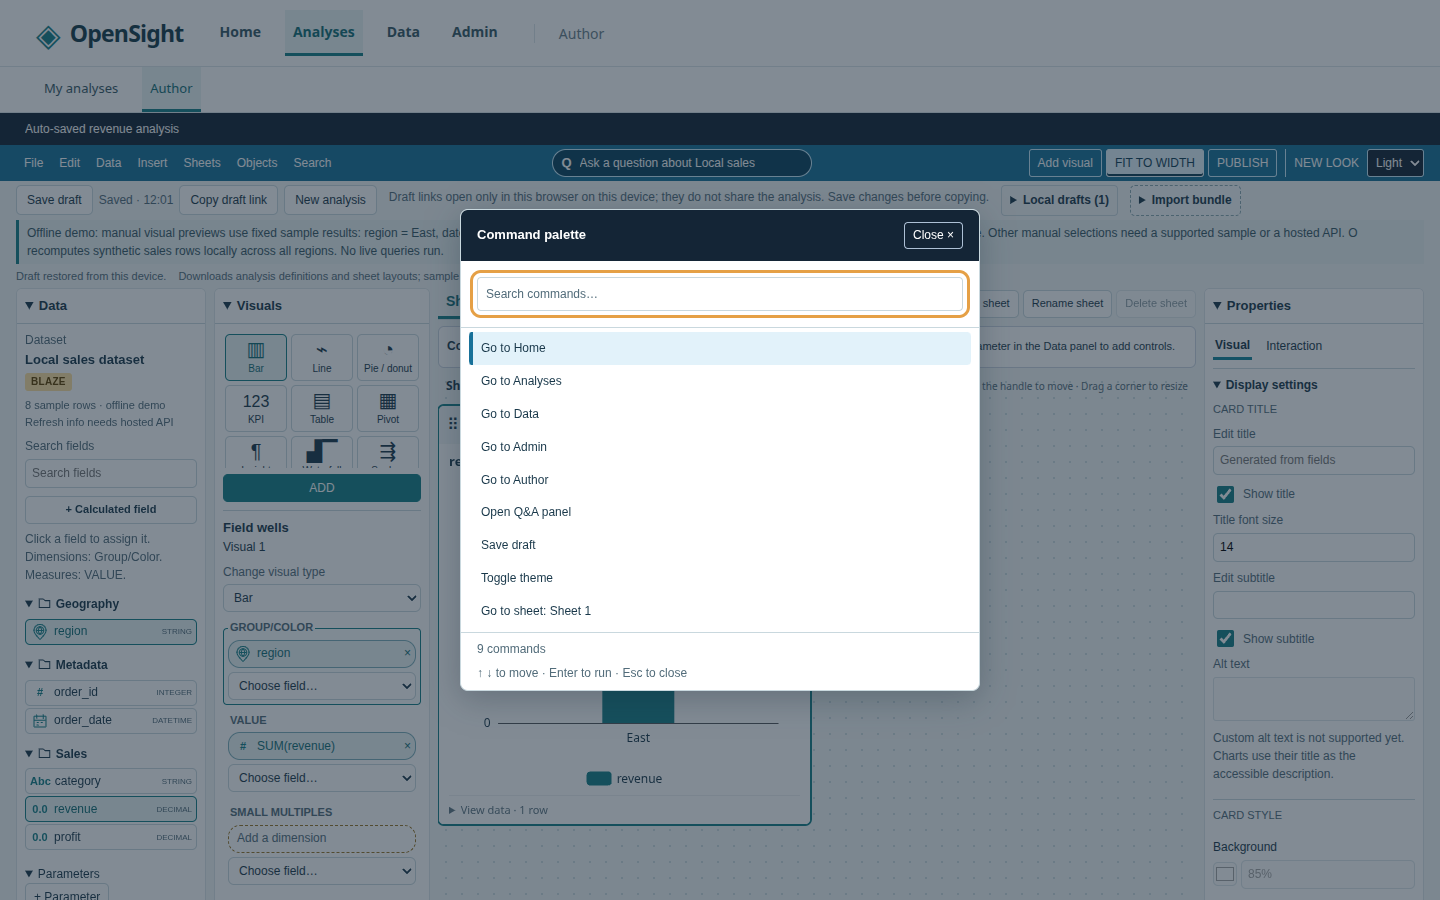
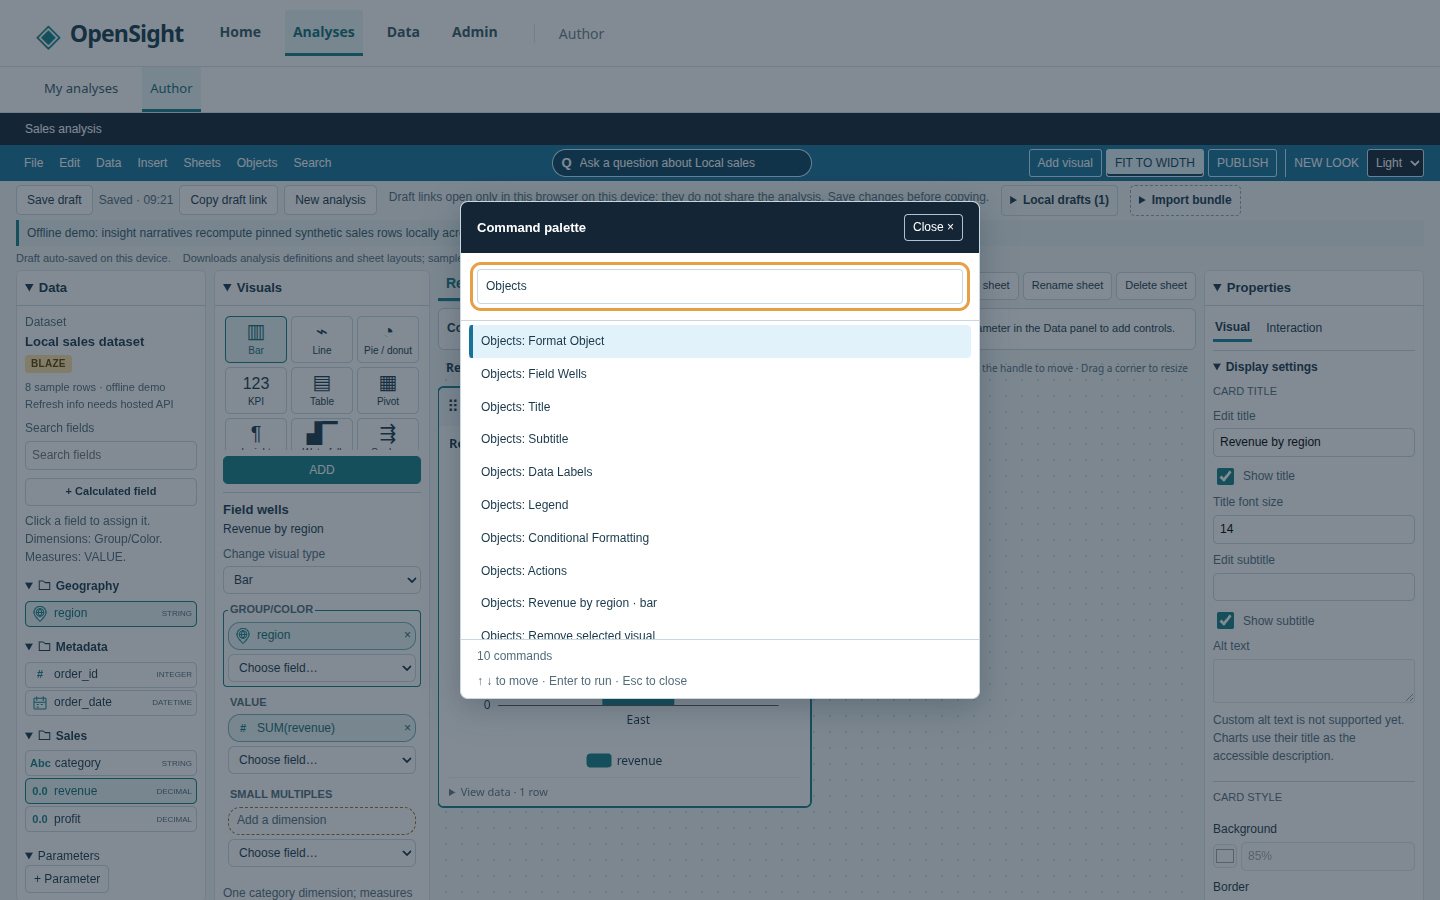
Issue #60: verify menu parity and refresh README media

diff --git a/docs/issue-60-menu-bar-parity.md b/docs/issue-60-menu-bar-parity.md
@@ -55,3 +55,66 @@ commands are omitted. Sheet/visual navigation and field search are retained
 as commands, including finding visuals on another sheet. Menu registrations
 are removed on navigation. Search restores focus through the existing modal
 lifecycle; no second search implementation or dependency was added.
+
+## Browser verification and media
+
+The rebuilt static demo was compared qualitatively with all seven supplied
+local menu references. Reference images were viewed locally and were never
+copied into the repository. The implementation retains the navy/blue toolbar,
+Arial system font stack, 12px controls and 4/8px spacing. Dropdown order and
+separators follow the reference. OpenSight retains its product navigation,
+explicit demo disclosures, and existing sheet/visual selection actions.
+
+Objects now exposes all reference actions in a taller desktop dropdown.
+Menus scroll on narrow screens to fit below the wrapped toolbar. The desktop
+menu is wider and more spacious than the reference; icons and exact pixel
+fidelity remain unmeasured. Search deliberately opens the shipped command
+palette instead of adding another search popover. Unsupported feature work
+remains identified by the disabled item explanations above; no GitHub calls
+or phase-plan edits were made under the offline/no-spec-edit brief.
+
+The final browser tour passed with **27 recorded checks, zero page errors,
+and zero external HTTP requests**. It exercised menu order, disabled reasons,
+Escape and outside-click dismissal, focus across collapsed docks and both
+Properties tabs, calculation/parameter/Q dialogs, sheet actions, palette
+execution and focus return, field and cross-sheet visual lookup, definition
+exports and .qs import, and preparation navigation. Viewports: 1440, 760 and
+390px in both light and dark themes. The separate root-wired Chromium geometry
+suite also covers 1100px and checks the mobile menu height limit.
+
+Captures and logs stay in ignored `.opensight/issue-60/browser/`. The supplied
+demo shim was used with only its output destination redirected there to
+respect the capture-location constraint; `packages/web/dist` was rebuilt from
+source. This is a local static demo, not a deployed server.
+
+The supplied fixed README capture script was adapted to this demo and capture
+directory, with File, Objects and Search scenes added. Capture and the supplied
+ffmpeg palette/assembly workflow passed: **59 frames, 960×600, 10fps, 5.9s**;
+no page errors. The hero GIF, Author screenshot and command-palette screenshot
+were refreshed, and the new Objects menu screenshot is shown below.
+
+![Objects menu in the local static demo](images/menu-bar.png)
+
+## Final verification
+
+Root `TZ=UTC npm test` exited 0: **1,941 passed / 0 failed / 12 skipped /
+0 cancelled** (1,953 tests). Every skip requires live PostgreSQL; no database
+was configured. Strict TypeScript checks passed as part of the workspace run.
+
+| Suite | Passed | Failed | Skipped |
+| --- | ---: | ---: | ---: |
+| API | 304 | 0 | 10 |
+| Bundle parser | 199 | 0 | 0 |
+| Embedding SDK | 9 | 0 | 0 |
+| Interpreter | 32 | 0 | 0 |
+| Parity | 11 | 0 | 0 |
+| Query engine | 502 | 0 | 2 |
+| Web | 878 | 0 | 0 |
+| Root conformance | 6 | 0 | 0 |
+
+The initial foreground run was terminated by the execution environment. A
+complete rerun identified two old assertions reading the native `disabled`
+property instead of the menu's keyboard-reachable `aria-disabled` state. Both
+were updated without changing availability checks; the final full rerun above
+passed. Logs and machine-readable counts are in the ignored issue directory.
+No dependency, backend service, or solution-design change was required.

diff --git a/README.md b/README.md
@@ -8,7 +8,7 @@ bidirectional asset compatibility — connect data, prepare datasets, build
 analyses and dashboards, and ask questions in natural language. Self-hosted;
 no AWS required.
 
-![OpenSight tour: dashboard, back to top, O answer, command palette, authoring, auto-save recovery, radar, Sankey, waterfall, insight, pivot, saved drafts, and data tools](docs/images/opensight-tour.gif)
+![OpenSight tour: sample dashboard, O answer, Author File and Objects menus, command palette, and data tools](docs/images/opensight-tour.gif)
 
 *Above: the offline demo — a dashboard, O answering "revenue by region" and
 adding the chart to an analysis, saved drafts, data preparation, connectors,
@@ -104,6 +104,11 @@ navigation and available actions, save the current draft, switch NEW LOOK, jump
 between analysis sheets, or open Q&A. Use arrows, Enter, and Esc from the keyboard.
 
 ![Command palette with navigation and current analysis actions](docs/images/command-palette.png)
+
+The Author menus expose File, Edit, Data, Insert, Sheets and Objects actions.
+**Search** and **Cmd/Ctrl+F** open the same command palette; unavailable menu
+actions explain their limits on focus or hover. Publish remains an honest
+hosted-service notice. See [menu behavior and limitations](docs/issue-60-menu-bar-parity.md).
 
 ![Authoring canvas with assigned fields and the Ask a question trigger in the toolbar](docs/images/author.png)
 
